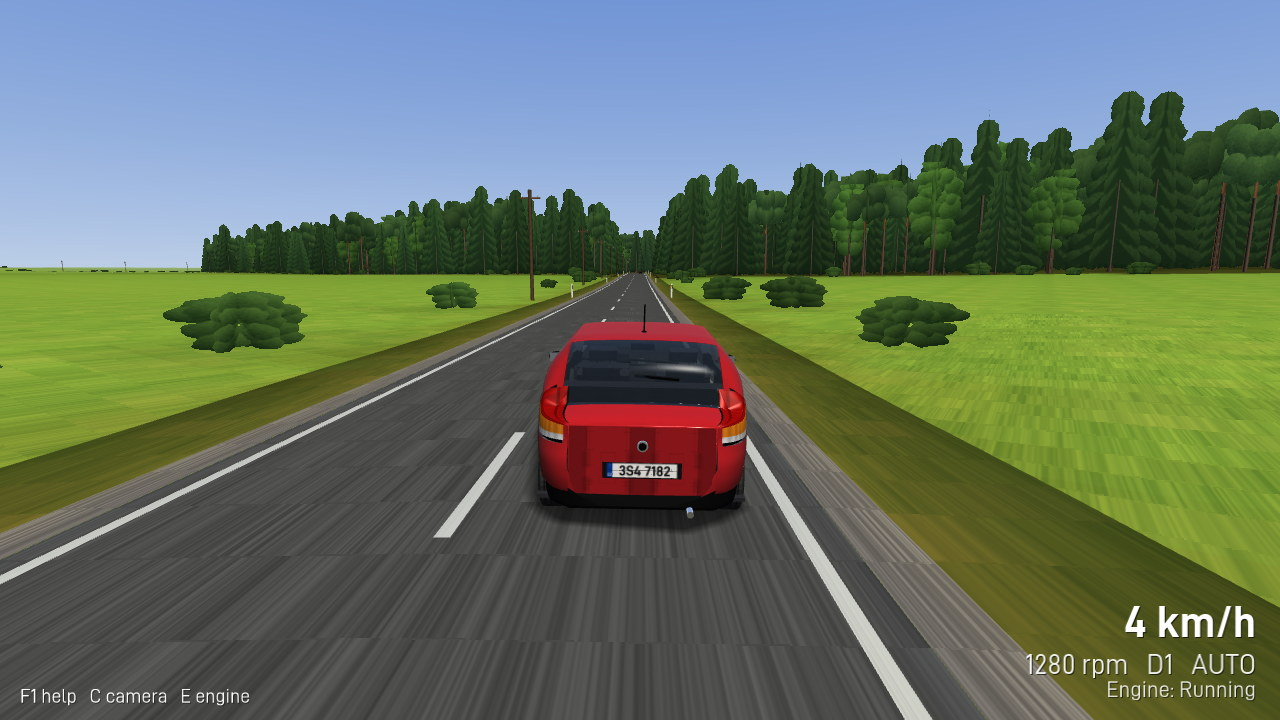
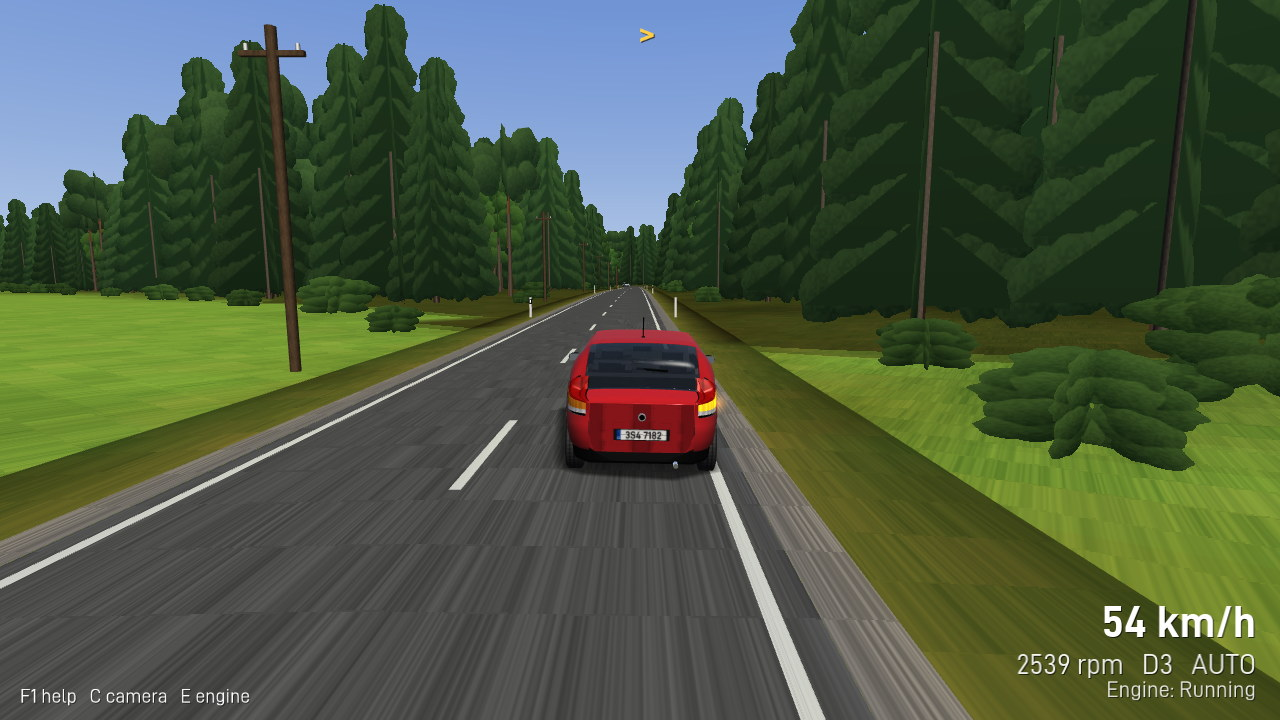
Headlamp lens contrast, working --lights capture flag, better forest and headlights pictures
The unlit headlamp lens was nearly white, so switching the low beam on made
almost no visible difference in daylight. The lens now reads as glass over a
grey reflector when off and brightens with a stronger emissive when lit.

--lights was a no-op without --auto-drive: the electrics gate every lamp
except the hazards on the ignition, and nothing switched it on, so captures
with and without the flag came out byte-identical. The flag now starts the
engine when no scripted drive does and toggles the headlights once the
ignition is live.

docs/screenshots: the forest picture is now a view deeper in the spruce
stands and a headlights picture joins the README table; docs/materials.md
and plan.md record the material change.

diff --git a/simulator/src/App/SimulatorGame.cpp b/simulator/src/App/SimulatorGame.cpp
@@ -242,9 +242,20 @@ namespace CarSim::App
 
     void SimulatorGame::ApplyAutoDrive(Sim::DriverControls& controls)
     {
-        if (options_.lights && !lightsApplied_ && elapsedSeconds_ > 0.3) {
-            lightsApplied_ = true;
-            controls.toggleHeadlights = true;
+        if (options_.lights && !lightsApplied_) {
+            // The electrical system gates every lamp except the hazards on the ignition, so a
+            // capture that asks for lights starts the engine first when the scripted drive does
+            // not (otherwise --lights alone silently produced a dark car).
+            const Sim::VehicleState state = vehicle_->Snapshot();
+            if (state.ignitionOn) {
+                if (elapsedSeconds_ > 0.3) {
+                    lightsApplied_ = true;
+                    controls.toggleHeadlights = true;
+                }
+            } else if (!options_.autoDriveSeconds && !lightsEngineRequested_ && elapsedSeconds_ > 0.1) {
+                lightsEngineRequested_ = true;
+                controls.toggleEngine = true;
+            }
         }
         if (!options_.autoDriveSeconds) {
             return;

diff --git a/simulator/src/Render/VehicleRenderer.cpp b/simulator/src/Render/VehicleRenderer.cpp
@@ -137,11 +137,15 @@ namespace CarSim::Render
                     look.specularPower = 4.0f;
                     break;
                 case CarMaterial::LampHead:
-                    look.diffuse = Vector3(0.85f, 0.88f, 0.92f);
+                    // Switched off, the lens reads as glass over a grey reflector bowl, not as
+                    // white plastic: without that contrast a lit lamp is barely distinguishable
+                    // from an unlit one in daylight.
+                    look.diffuse = Vector3(0.52f, 0.54f, 0.58f);
                     look.specular = Vector3(1.0f, 1.0f, 1.0f);
                     look.specularPower = 80.0f;
                     if (state.lowBeam) {
-                        look.emissive = state.highBeam ? Vector3(1.0f, 0.98f, 0.90f) : Vector3(0.70f, 0.70f, 0.64f);
+                        look.diffuse = Vector3(0.92f, 0.93f, 0.95f);
+                        look.emissive = state.highBeam ? Vector3(1.0f, 0.98f, 0.90f) : Vector3(0.78f, 0.77f, 0.70f);
                     }
                     break;
                 case CarMaterial::LampTail:

diff --git a/simulator/include/CarSim/App/SimulatorGame.hpp b/simulator/include/CarSim/App/SimulatorGame.hpp
@@ -138,5 +138,6 @@ namespace CarSim::App
         bool screenshotRequested_ = false;
         bool autoDriveStarted_ = false;
         bool lightsApplied_ = false;
+        bool lightsEngineRequested_ = false;
     };
 }

diff --git a/plan.md b/plan.md
@@ -731,3 +731,15 @@ Filled in as tasks complete (commit per logical unit; final SHA at the end of th
   tables and status text updated, superseded `town-street/cockpit/forest-road` removed.
   A `kostel` player spawn (90 m before the church junction, east-bound) was added to
   `traffic.json` for junction captures; `map-validate` reports 0 warnings.
+- Headlamps and the `--lights` capture flag: the unlit headlamp lens was nearly white
+  (diffuse 0.85/0.88/0.92), so a lit lamp was indistinguishable from an unlit one in daylight;
+  the lens now reads as glass over a grey reflector when off (0.52/0.54/0.58) and brightens to
+  0.92/0.93/0.95 with emissive 0.78 when the low beam is on (`docs/materials.md` updated).
+  While checking this, `--lights` turned out to be a no-op on its own: the electrical system
+  gates every lamp except the hazards on the ignition, and without `--auto-drive` the engine
+  stayed off, so the two captures were byte-identical. `--lights` now starts the engine itself
+  when no scripted drive does and toggles the headlights once the ignition is live; the lit and
+  unlit captures differ clearly (lens, glow, plate lamp). The curated forest picture was
+  replaced by a view deeper in the spruce stands and a headlights picture was added to the
+  README. The yellow chevron visible in the sky of the forest captures was tracked down to the
+  HUD indicator telltale drawn at the top centre, not a world artifact.

diff --git a/docs/materials.md b/docs/materials.md
@@ -19,7 +19,7 @@ are procedural CPU images (`CarTextures.cpp`, `ProceduralTextures.cpp`) uploaded
 | `Rim` | BasicEffect | rim finish (machined face, dark pockets) | 0.78 grey, specular 0.9 / 44 | alloy wheels |
 | `BrakeDisc` | BasicEffect | white | 0.30 grey, specular 0.5 / 30 | brake discs, hubs (LOD 0/1 only) |
 | `Grille` | BasicEffect | hexagonal mesh (bars light, openings dark) | white x texture, specular 0.25 / 20 | grille, intake, rear diffuser |
-| `LampHead` | BasicEffect | projector lens (two reflector bowls, ribs) | 0.85/0.88/0.92, specular 1.0 / 80; emissive 0.70 low beam, 1.0 high beam | headlamp decals |
+| `LampHead` | BasicEffect | projector lens (two reflector bowls, ribs) | off 0.52/0.54/0.58 (glass over a grey reflector); lit 0.92/0.93/0.95 with emissive 0.78 low beam, 1.0 high beam; specular 1.0 / 80 | headlamp decals |
 | `LampTail` | BasicEffect | ribbed lens | 0.55/0.03/0.03, specular 0.55 / 50; emissive 0.38 red with lights, 0.95 red braking | tail lamp decals |
 | `LampIndicator` | BasicEffect | ribbed lens | 0.90/0.50/0.10; emissive amber when blinking (per side) | front and rear indicators, side repeaters |
 | `LampReverse` | BasicEffect | ribbed lens | 0.82 grey; emissive when reversing | narrow inner segment of the tail cluster |

diff --git a/README.md b/README.md
@@ -16,9 +16,9 @@ town, its outskirts, the countryside and a forest, meet traffic, and enjoy drivi
 | --- | --- | --- |
 | ![Town street](docs/screenshots/town.jpg) | ![Traffic](docs/screenshots/traffic.jpg) | ![Main road through the fields](docs/screenshots/countryside.jpg) |
 
-| Forest | Intersection |
-| --- | --- |
-| ![Forest road](docs/screenshots/forest.jpg) | ![Square junction](docs/screenshots/intersection.jpg) |
+| Forest | Intersection | Headlights |
+| --- | --- | --- |
+| ![Forest road](docs/screenshots/forest.jpg) | ![Square junction](docs/screenshots/intersection.jpg) | ![Headlights on](docs/screenshots/lights.jpg) |
 
 All pictures are headless captures from the development container (Xvfb, Mesa llvmpipe
 software OpenGL ES 3, no multisampling); a GPU renders the same frames with sharper texture
